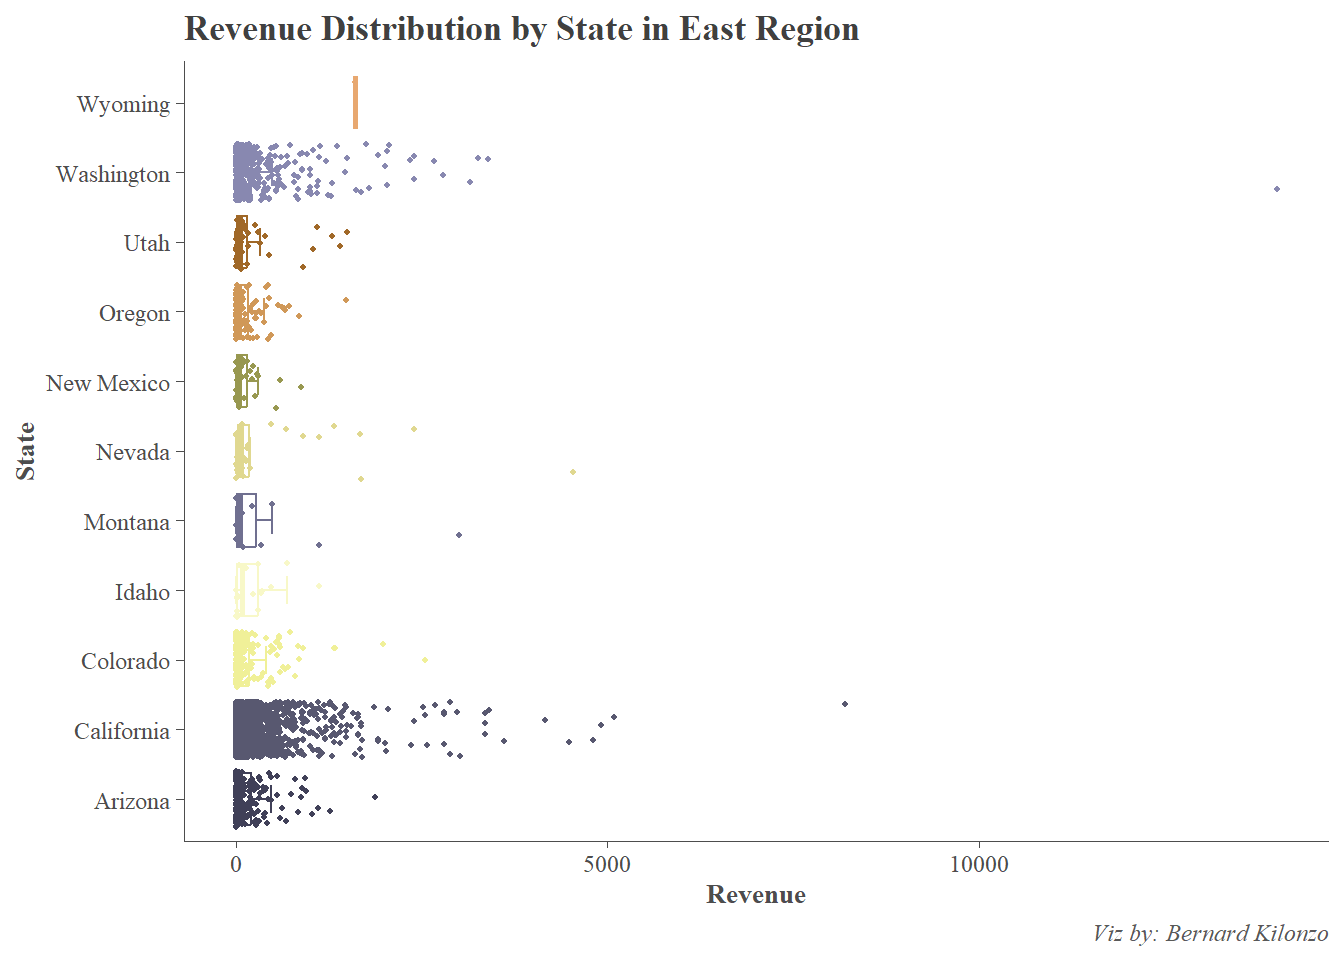
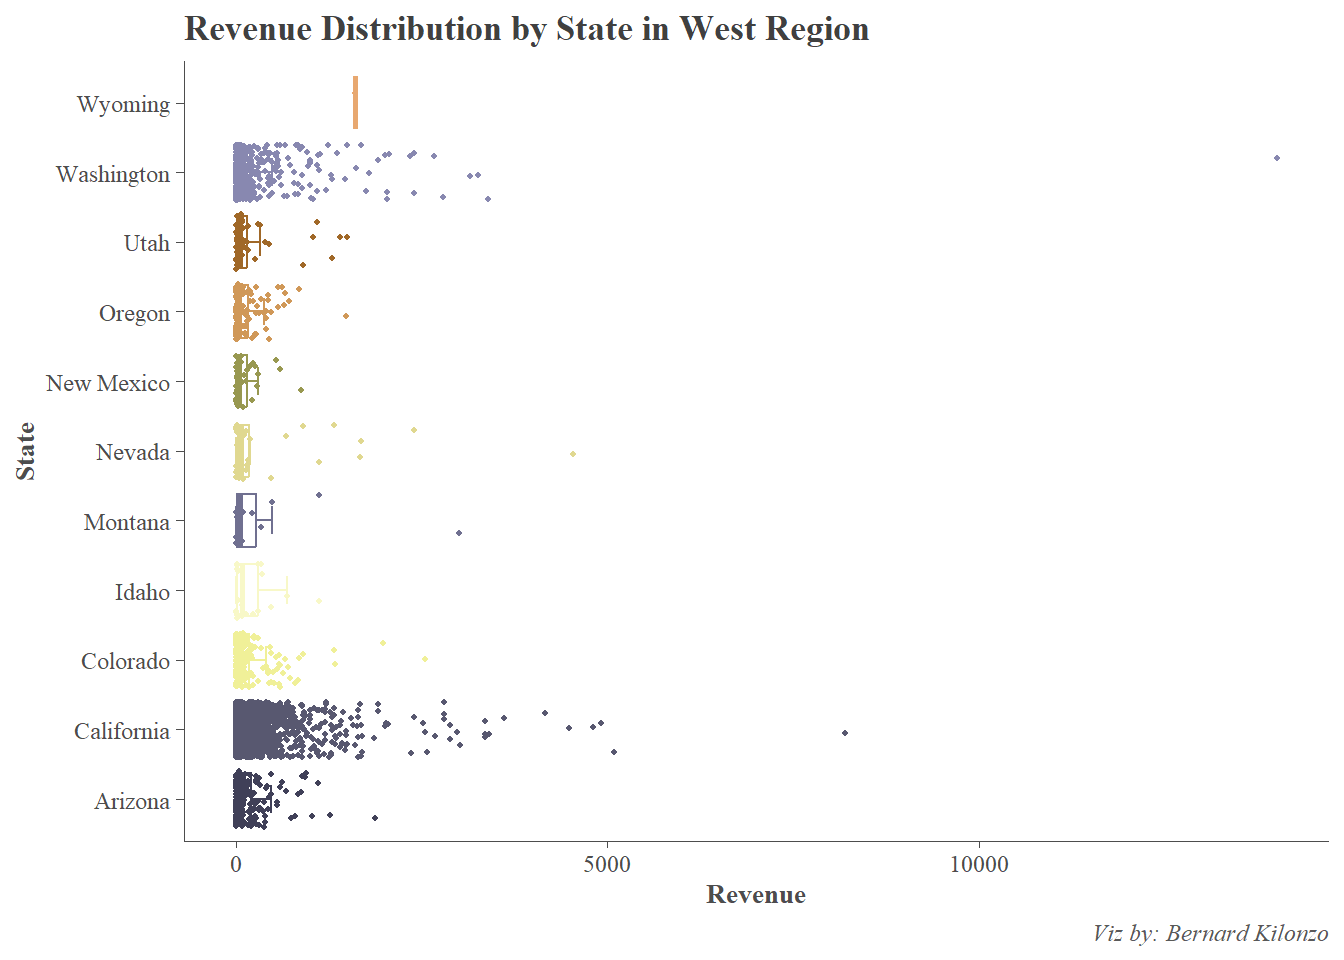
Revising chart title.

diff --git a/Report Customization/Report_Dashboard_Customization.html b/Report Customization/Report_Dashboard_Customization.html
@@ -813,7 +813,7 @@ background: #023743;
 <span id="cb16-4"><a href="#cb16-4" aria-hidden="true" tabindex="-1"></a>  <span class="fu">geom_boxplot</span>(<span class="at">outlier.color =</span> <span class="cn">NA</span>)<span class="sc">+</span><span class="co">#removing the outliers</span></span>
 <span id="cb16-5"><a href="#cb16-5" aria-hidden="true" tabindex="-1"></a>  <span class="fu">geom_jitter</span>(<span class="at">size =</span><span class="fl">0.7</span>)<span class="sc">+</span></span>
 <span id="cb16-6"><a href="#cb16-6" aria-hidden="true" tabindex="-1"></a>  <span class="fu">scale_color_paletteer_d</span>(<span class="st">"palettetown::snorlax"</span>)<span class="sc">+</span></span>
-<span id="cb16-7"><a href="#cb16-7" aria-hidden="true" tabindex="-1"></a>  <span class="fu">labs</span>(<span class="at">title =</span> <span class="st">"Revenue Distribution by State in East Region"</span>,</span>
+<span id="cb16-7"><a href="#cb16-7" aria-hidden="true" tabindex="-1"></a>  <span class="fu">labs</span>(<span class="at">title =</span> <span class="st">"Revenue Distribution by State in West Region"</span>,</span>
 <span id="cb16-8"><a href="#cb16-8" aria-hidden="true" tabindex="-1"></a>       <span class="at">caption =</span> <span class="st">"Viz by: Bernard Kilonzo"</span>, <span class="at">x =</span> <span class="st">"Revenue"</span>)<span class="sc">+</span></span>
 <span id="cb16-9"><a href="#cb16-9" aria-hidden="true" tabindex="-1"></a>  <span class="fu">theme</span>(<span class="at">panel.background =</span> <span class="fu">element_blank</span>(),</span>
 <span id="cb16-10"><a href="#cb16-10" aria-hidden="true" tabindex="-1"></a>        <span class="at">axis.line =</span> <span class="fu">element_line</span>(<span class="at">color =</span> <span class="st">"gray30"</span>, <span class="at">linewidth =</span> <span class="fl">0.2</span>),</span>
